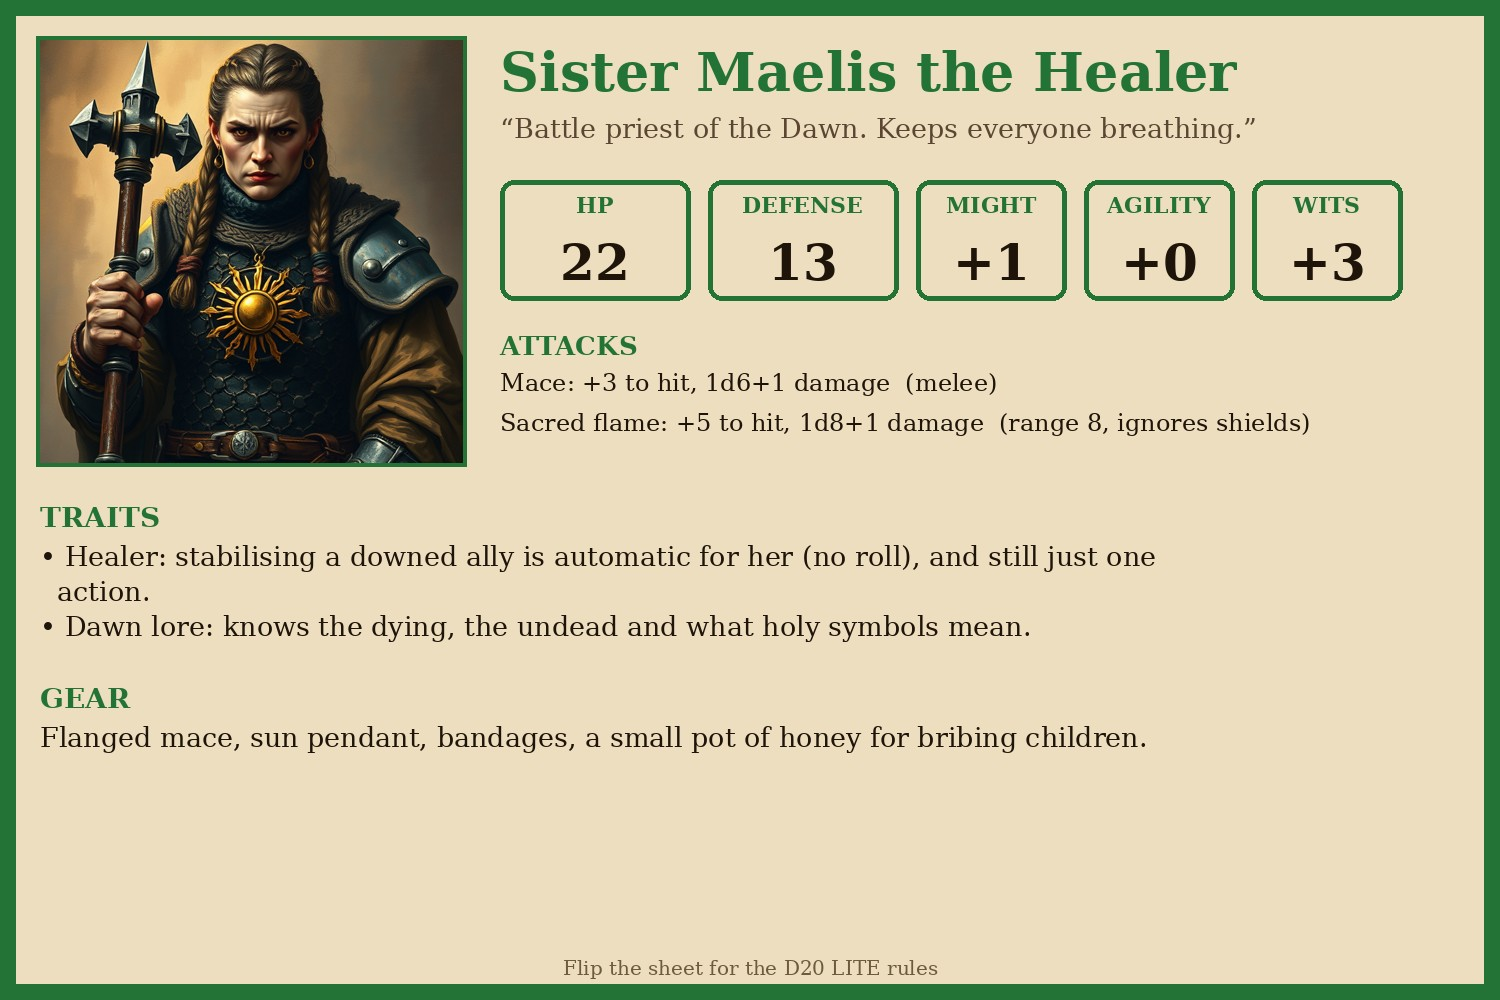
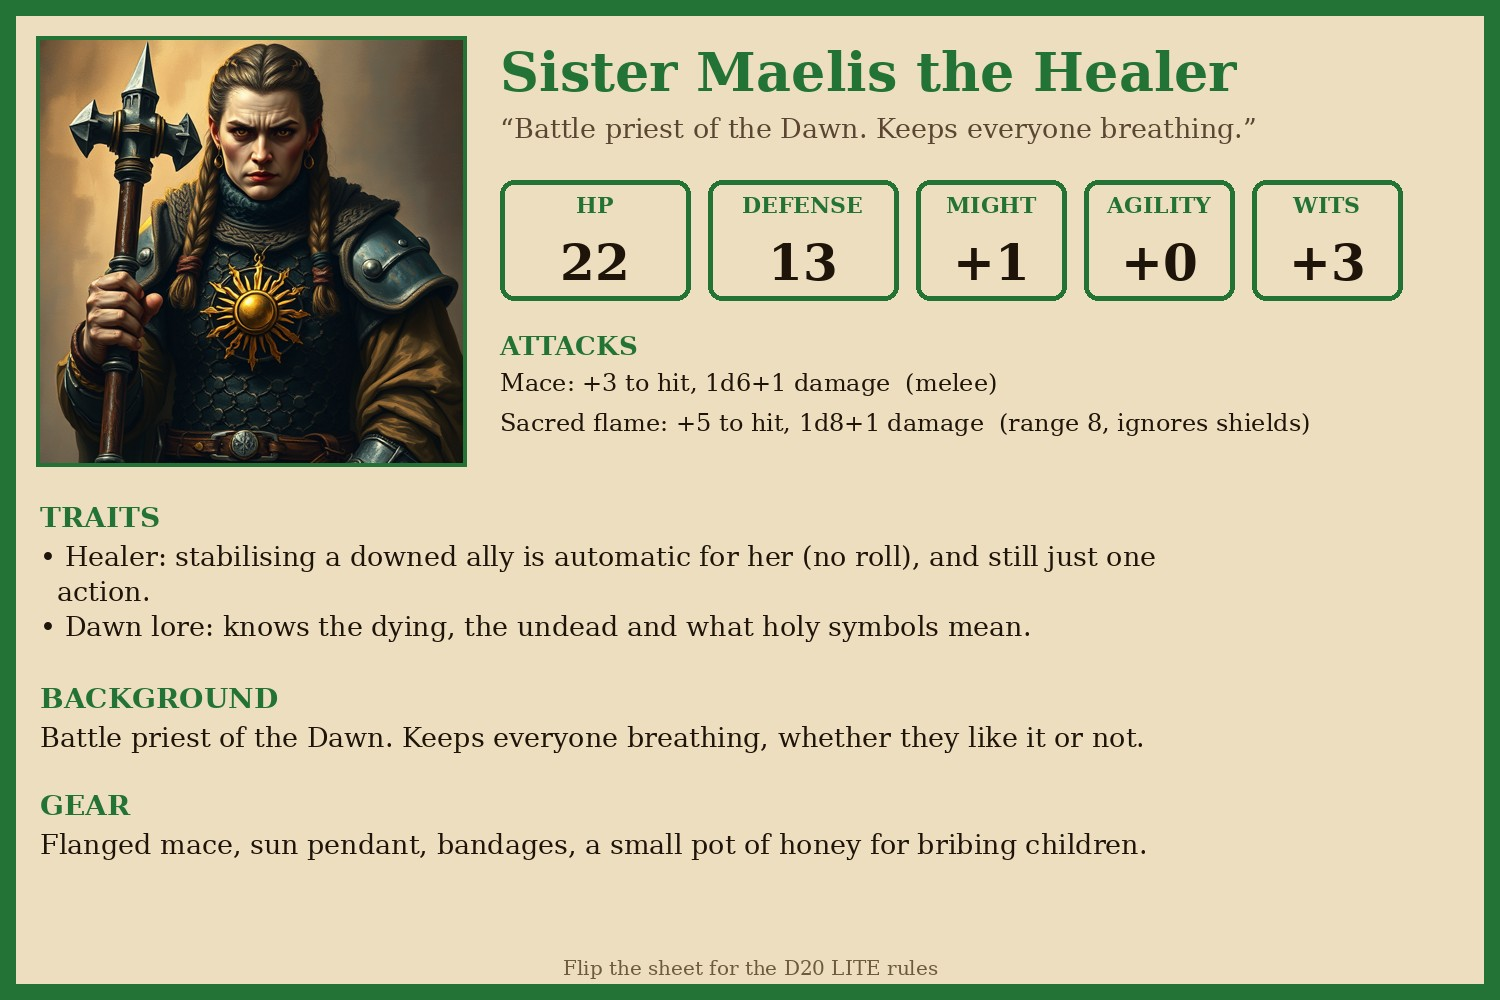
Rules page parchment seeded (stable builds); keep hero background section

Changed region(s): [[0.0307, 0.682, 0.7667, 0.868]]

diff --git a/build.py b/build.py
@@ -1,5 +1,6 @@
 """Build the TTS save.  python build.py <asset base url>
 e.g. https://raw.githubusercontent.com/<user>/<repo>/<commit>/  -> writes art/out/*, Holst.json, GM_GUIDE.md"""
+import random
 import hashlib, json, math, subprocess, sys, textwrap
 from pathlib import Path
 from PIL import Image, ImageChops, ImageDraw, ImageFilter, ImageFont
@@ -85,7 +86,8 @@ def make_sheet(hero):
     for n, (name, bonus, dmg, note) in enumerate(hero["attacks"]):
         d.text((500, 368 + n * 40), f"{name}: {bonus:+d} to hit, {dmg} damage  ({note})", font=font(24), fill=ink)
     y = 500
-    for title, body in (("TRAITS", "\n".join("\u2022 " + t for t in hero["traits"])), ("GEAR", hero["gear"])):
+    for title, body in (("TRAITS", "\n".join("\u2022 " + t for t in hero["traits"])), ("BACKGROUND", hero["background"]),
+                        ("GEAR", hero["gear"])):
         d.text((40, y), title, font=font(28, True), fill=col)
         lines = [l for para in body.split("\n") for l in textwrap.wrap(para, 92, subsequent_indent="  " if title == "TRAITS" else "")]
         d.multiline_text((40, y + 40), "\n".join(lines), font=font(27), fill=ink, spacing=9)
@@ -98,7 +100,7 @@ def rules_page(col):
     """The sheet's back: D20 LITE rules laid out as headed boxes, plus the difficulty badges."""
     W, H, ink, paper = 1500, 1000, (35, 25, 15), (236, 222, 190)
     # parchment: soft noise and a dark vignette at the edges
-    noise = Image.effect_noise((W, H), 18).filter(ImageFilter.GaussianBlur(2))
+    noise = Image.frombytes("L", (W, H), random.Random(7).randbytes(W * H)).point(lambda v: 128 + (v - 128) // 7).filter(ImageFilter.GaussianBlur(2))
     im = Image.composite(Image.new("RGB", (W, H), (222, 204, 166)), Image.new("RGB", (W, H), paper), noise)
     mask = Image.new("L", (W, H), 255)
     ImageDraw.Draw(mask).rounded_rectangle((60, 60, W - 60, H - 60), 80, fill=0)
